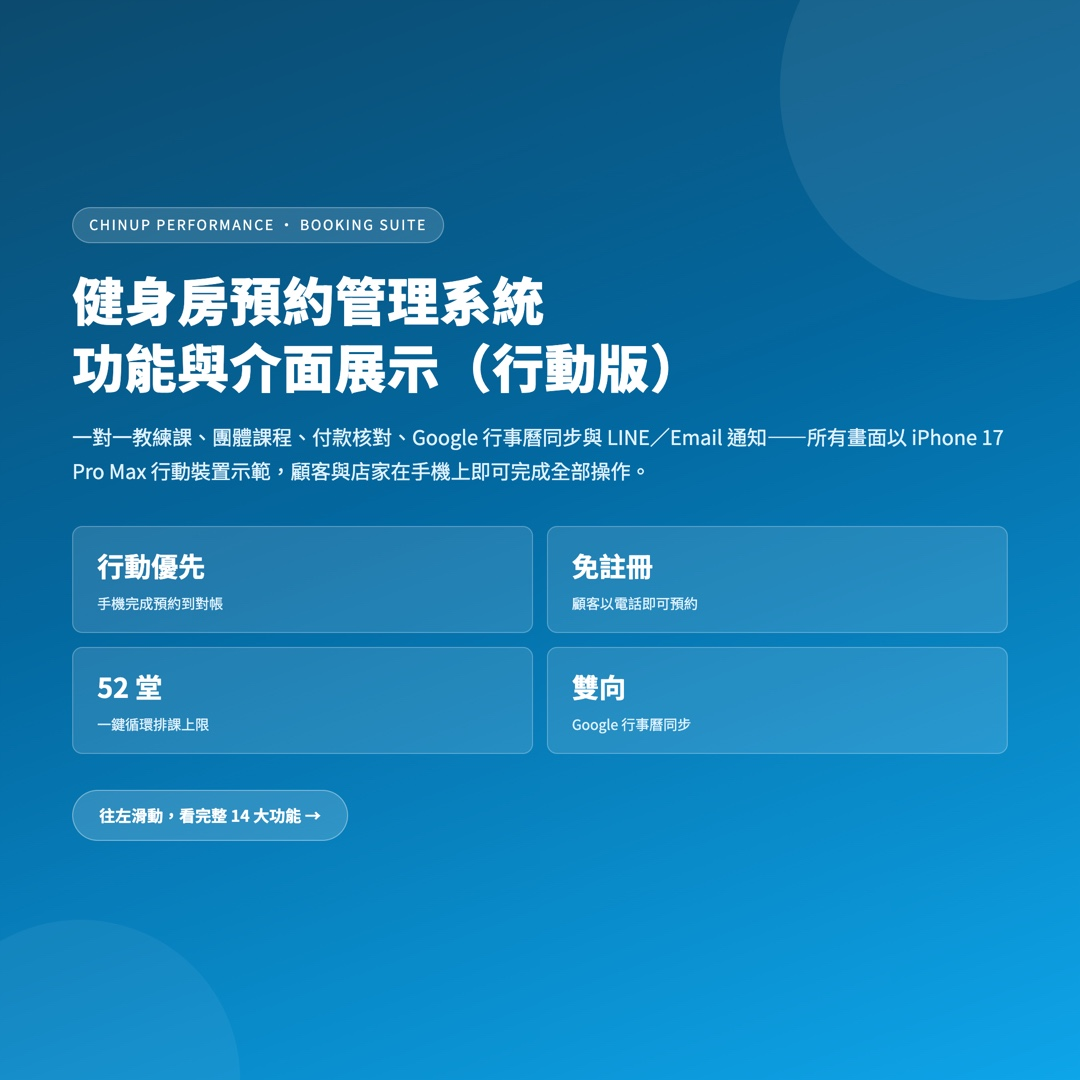
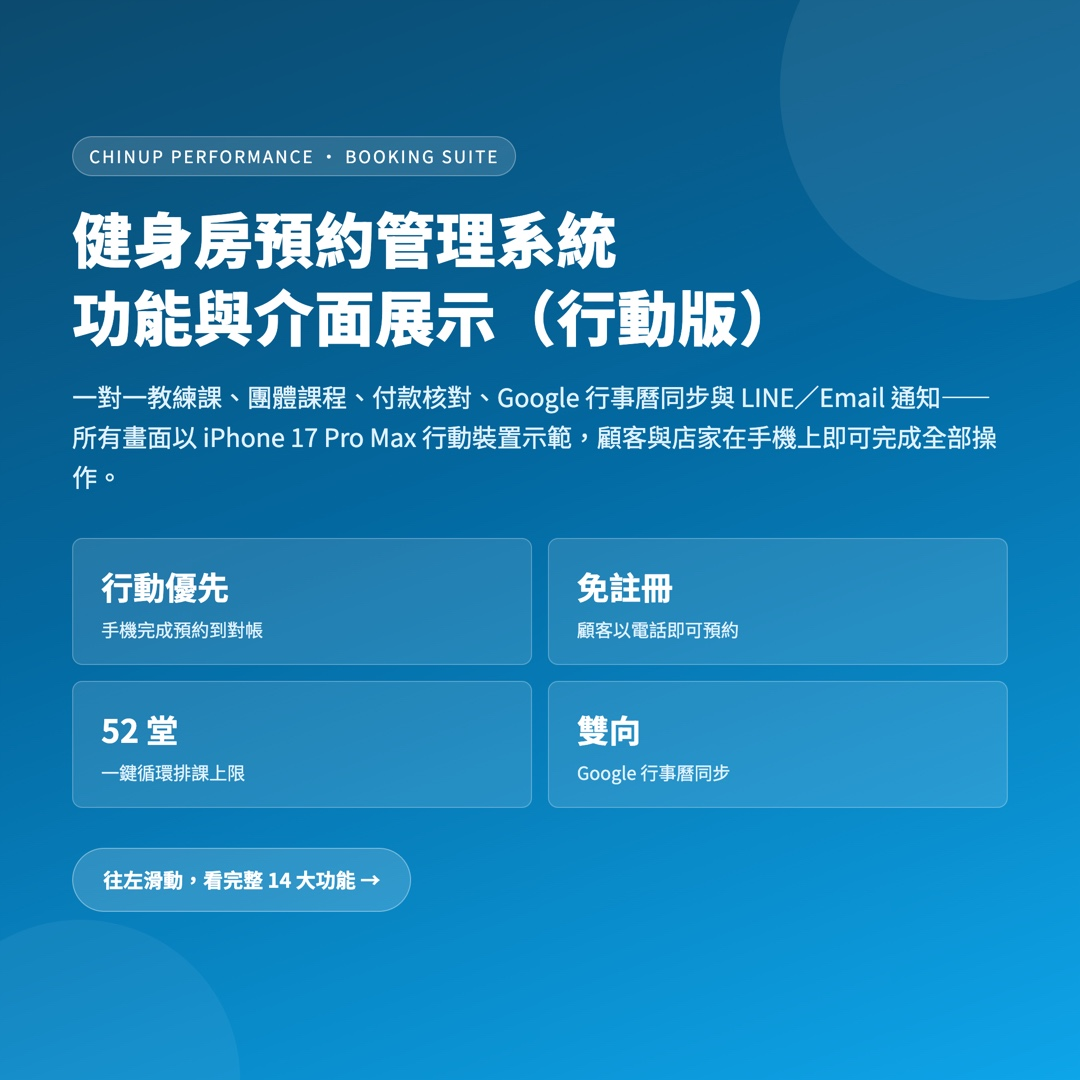
docs: IG 圖卡字體放大重製（提升手機可讀性）
字級全面上調：標題 37→45、內文 18→23、要點 17→23、流程
16.5/14.5→22/19、角色階梯 16→22、規格卡 17→22、封面標題
52→60；手機 mockup 縮為 .98 並把文字欄加寬（380px+），17 張
1080×1080 JPEG 全部重產，逐卡確認無溢出。

Changed region(s): [[0.0611, 0.4889, 0.9472, 0.8556], [0.0611, 0.1222, 0.9472, 0.4583]]

diff --git a/docs/ig/generate.js b/docs/ig/generate.js
@@ -11,52 +11,55 @@ section{background:#fff}
 section.spec{background:var(--sky-900);padding:64px 72px 96px}
 .wrap{justify-content:center}
 
-/* 標題區 */
-.sec-no{font-size:16px;letter-spacing:.22em}
-h2{font-size:37px;line-height:1.35}
-.sec-head{max-width:100%;margin-bottom:6px}
-.sec-head p{font-size:18px;line-height:1.65;margin-top:12px}
+/* 標題區（字級全面放大以利 IG 手機瀏覽） */
+.sec-no{font-size:19px;letter-spacing:.22em}
+h2{font-size:45px;line-height:1.32}
+.sec-head{max-width:100%;margin-bottom:10px}
+.sec-head p{font-size:23px;line-height:1.6;margin-top:14px}
 
-/* 主內容：手機固定左欄、要點右欄 */
-.cols, .cols.r{grid-template-columns:420px 1fr;gap:48px;align-items:center;min-height:0}
+/* 主內容：手機略縮固定左欄、要點右欄加寬 */
+.cols, .cols.r{grid-template-columns:380px 1fr;gap:40px;align-items:center;min-height:0}
 .cols.r .phone-col{order:0}
-.phone-col>div{transform:scale(1.06);transform-origin:top center}
-.phone-cap{font-size:13px;margin-top:12px}
-.feature-list{gap:18px}
-.feature-list li{font-size:17px;line-height:1.6}
-.feature-list li::before{width:26px;height:26px;font-size:15px;border-radius:8px;margin-top:3px}
+.phone-col>div{transform:scale(.98);transform-origin:top center}
+.phone-cap{font-size:15px;margin-top:12px}
+.feature-list{gap:22px}
+.feature-list li{font-size:23px;line-height:1.55;gap:16px}
+.feature-list li::before{width:32px;height:32px;font-size:19px;border-radius:9px;margin-top:3px}
 
 /* 流程與角色階梯 */
-.step b{font-size:16.5px}
-.step p{font-size:14.5px}
-.ladder{gap:12px}
-.ladder .lv{font-size:16px;padding:16px 18px}
-.ladder .lv .dotz{width:46px;height:46px;font-size:21px;border-radius:13px}
-.ladder .lv .tiny{font-size:13px}
+.step{padding:16px 24px 16px 30px}
+.step::before{width:38px;height:38px;font-size:18px;top:18px}
+.step b{font-size:22px;margin-bottom:5px}
+.step p{font-size:19px;line-height:1.5}
+.ladder{gap:16px}
+.ladder .lv{font-size:22px;padding:20px 22px;gap:16px}
+.ladder .lv b{font-size:23px}
+.ladder .lv .dotz{width:54px;height:54px;font-size:25px;border-radius:15px}
+.ladder .lv .tiny{font-size:17px}
 
 /* footer 品牌＋頁碼 */
-section::before{content:'CHINUP PERFORMANCE';position:absolute;left:72px;bottom:42px;font-size:13px;font-weight:800;letter-spacing:.18em;color:var(--ink-mute)}
-section::after{content:counter(card,decimal-leading-zero) ' / 17';position:absolute;right:72px;bottom:42px;font-size:13px;font-weight:800;letter-spacing:.12em;color:var(--ink-mute)}
+section::before{content:'CHINUP PERFORMANCE';position:absolute;left:72px;bottom:42px;font-size:16px;font-weight:800;letter-spacing:.18em;color:var(--ink-mute)}
+section::after{content:counter(card,decimal-leading-zero) ' / 17';position:absolute;right:72px;bottom:42px;font-size:16px;font-weight:800;letter-spacing:.12em;color:var(--ink-mute)}
 section.spec::before, section.spec::after{color:#7dd3fc}
 
 /* 封面 */
 .hero{display:flex;align-items:center}
 .hero .wrap{justify-content:center}
-.hero .kicker{font-size:14px;align-self:flex-start}
-.hero h1{font-size:52px}
-.hero p.lead{font-size:20px;margin-top:20px;max-width:100%}
-.hero .stats{margin-top:38px;display:grid;grid-template-columns:1fr 1fr;gap:14px}
-.hero .stat{padding:16px 24px}
-.hero .stat b{font-size:27px}
-.hero .stat span{font-size:14px}
-.swipe{margin-top:36px;font-size:16px;font-weight:700;color:#fff;background:rgba(255,255,255,.16);border:1px solid rgba(255,255,255,.35);border-radius:999px;padding:11px 26px;display:inline-block;align-self:flex-start}
+.hero .kicker{font-size:17px;align-self:flex-start}
+.hero h1{font-size:60px}
+.hero p.lead{font-size:25px;margin-top:22px;max-width:100%;line-height:1.6}
+.hero .stats{margin-top:42px;display:grid;grid-template-columns:1fr 1fr;gap:16px}
+.hero .stat{padding:20px 28px}
+.hero .stat b{font-size:32px}
+.hero .stat span{font-size:18px}
+.swipe{margin-top:40px;font-size:20px;font-weight:700;color:#fff;background:rgba(255,255,255,.16);border:1px solid rgba(255,255,255,.35);border-radius:999px;padding:14px 30px;display:inline-block;align-self:flex-start}
 
 /* 技術規格＋聲明 */
 .spec .sec-head{margin-bottom:0}
-.spec-grid{grid-template-columns:1fr;gap:20px;margin-top:32px}
-.spec .card{padding:28px 32px;font-size:17px;line-height:1.75}
-.spec .card b{font-size:20px}
-.disclaimer{padding:26px 0 0;text-align:left;font-size:13px;color:#bae6fdaa}
+.spec-grid{grid-template-columns:1fr;gap:22px;margin-top:34px}
+.spec .card{padding:30px 34px;font-size:22px;line-height:1.7}
+.spec .card b{font-size:25px}
+.disclaimer{padding:30px 0 0;text-align:left;font-size:16px;color:#bae6fdaa;line-height:1.6}
 `;
 
 (async () => {
